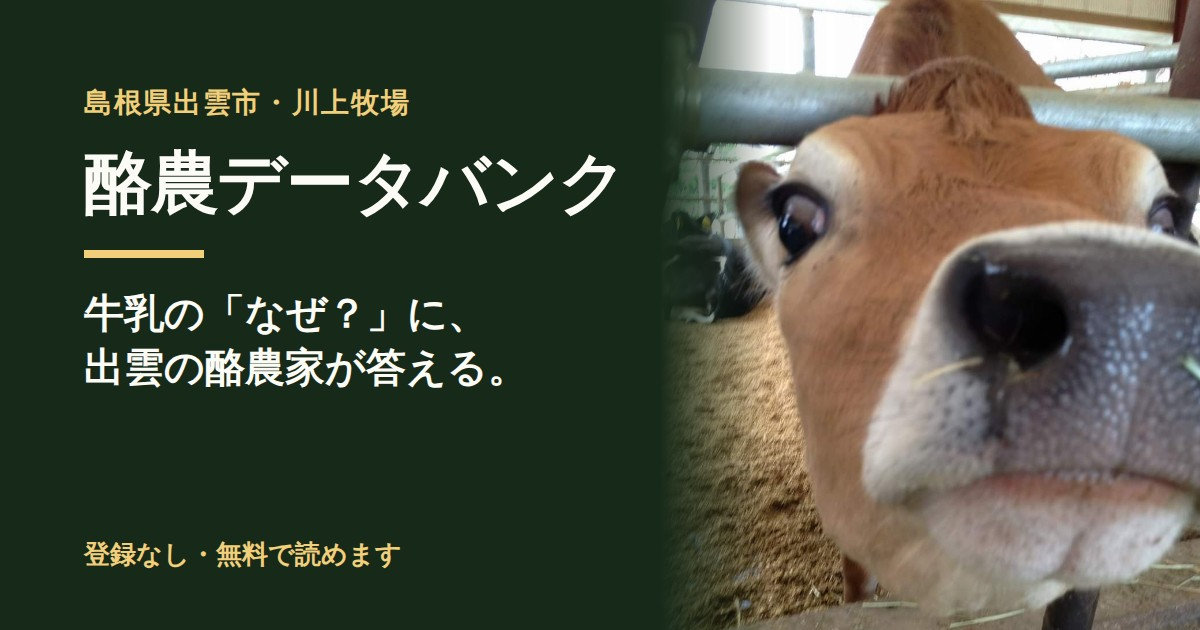
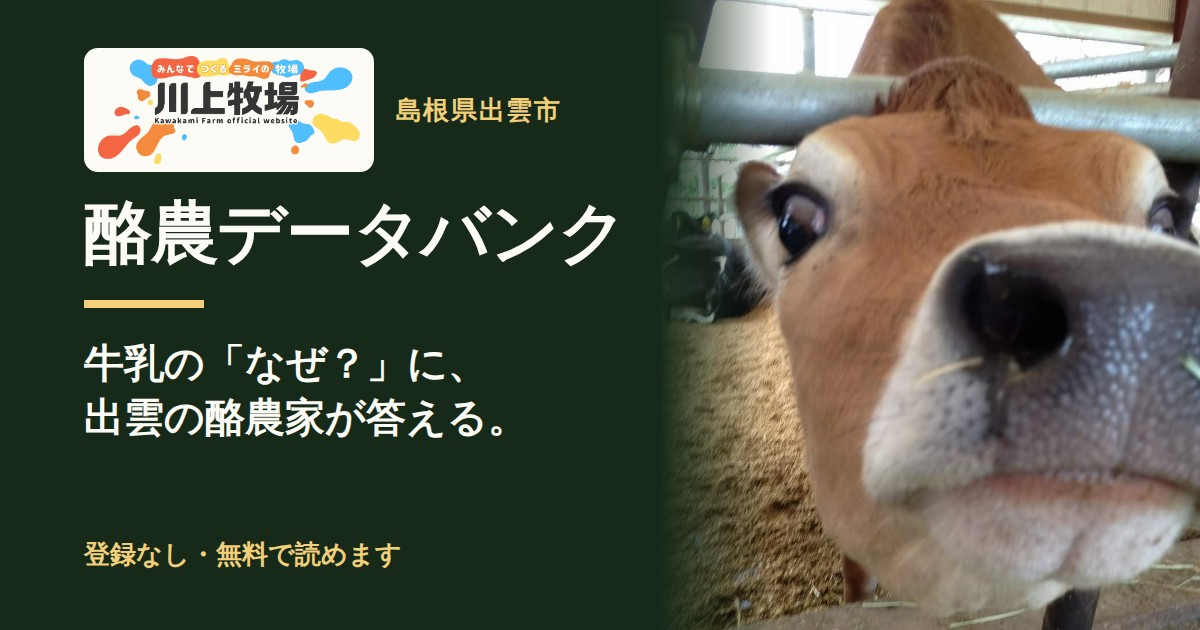
共有画像に川上牧場のロゴを入れる
ロゴの背景を透明にして生成りの札に載せ、左上に置く。子牛版も同じ型で更新。

Claude-Session: https://claude.ai/code/session_01CHGcouAK136QQtGTcvYsXp

Changed region(s): [[0.0617, 0.0603, 0.5242, 0.4222], [0.0617, 0.4524, 0.4317, 0.6937], [0.4008, 0.3921, 0.4317, 0.4222]]

diff --git a/databank/scripts/ogp/ogp.html b/databank/scripts/ogp/ogp.html
@@ -4,8 +4,8 @@
 <style>
 html,body{margin:0;width:1200px;height:630px;overflow:hidden;background:#172a19}
 .wrap{position:relative;width:1200px;height:630px;display:grid;grid-template-columns:660px 540px}
-.text{position:relative;padding:84px 0 0 84px;color:#fdfbf6;font-family:"Noto Sans JP",sans-serif}
-.eyebrow{font-size:28px;font-weight:700;color:#f2cf7a;letter-spacing:.06em}
+.text{position:relative;padding:48px 0 0 84px;color:#fdfbf6;font-family:"Noto Sans JP",sans-serif}
+.brand{display:flex;align-items:center;gap:22px}.logo{height:124px;width:auto;background:#fdfbf6;border-radius:14px;padding:8px 14px;box-sizing:border-box}.eyebrow{font-size:26px;font-weight:700;color:#f2cf7a;letter-spacing:.06em}
 h1{margin:22px 0 0;font-family:"Noto Serif JP",serif;font-weight:900;font-size:68px;line-height:1.15;letter-spacing:-.02em;color:#fdfbf6;white-space:nowrap}
 .bar{width:120px;height:8px;background:#f2cf7a;margin:28px 0 28px}
 .lead{font-size:40px;font-weight:700;line-height:1.35;color:#fdfbf6}
@@ -16,7 +16,7 @@ h1{margin:22px 0 0;font-family:"Noto Serif JP",serif;font-weight:900;font-size:6
 </style></head><body>
 <div class="wrap">
   <div class="text">
-    <div class="eyebrow">島根県出雲市・川上牧場</div>
+    <div class="brand"><img class="logo" src="logo.png" alt=""><span class="eyebrow">島根県出雲市</span></div>
     <h1>酪農データバンク</h1>
     <div class="bar"></div>
     <div class="lead">牛乳の「なぜ？」に、<br>出雲の酪農家が答える。</div>

diff --git a/databank/scripts/ogp/README.md b/databank/scripts/ogp/README.md
@@ -1,6 +1,7 @@
 # 共有画像（OGP）の型紙
 
 - `ogp.html`: 1200×630 の型紙。サイトと同じ書体（Noto Sans JP／Noto Serif JP）と3色（深緑 #172a19・生成り #fdfbf6・干し草の黄 #f2cf7a）。`PHOTO` を写真の名前に置き換え、Chromium で 1200×630 のスクリーンショットを撮る。
+- `logo.png`: 川上牧場のロゴ（背景を透明にしたもの）。生成りの札に載せる。
 - `jersey.jpg`: 本命の写真（川上さん撮影・ジャージー牛の鼻先）。出来上がりは `public/ogp.jpg`。
 - `calf.jpg` / `ogp_calf.jpg`: 差し替え用（子牛）。`public/ogp.jpg` に上書きすれば切り替わる。
 - 写真を変えるときは `--pos: 56% 45%`（object-position）で顔の位置を合わせる。
